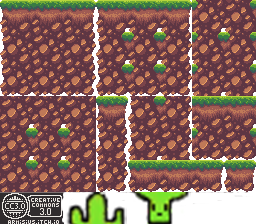
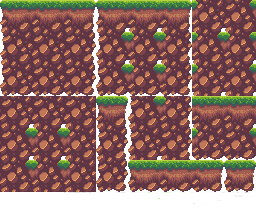
add v.1 of level_1.tmx remove cactus layer fix warnings in Game.h

Changed region(s): [[0.0, 0.8438, 0.5, 1.0], [0.5, 0.8438, 0.75, 1.0], [0.875, 0.8438, 0.9062, 0.875]]

diff --git a/src/Game.cpp b/src/Game.cpp
@@ -6,26 +6,6 @@
 
 Game *Game::s_Instance = nullptr;
 
-void Game::startGame() {
-    playState = new PlayState(100.0f, 300.0f, 3, 0);
-    manager.addState(playState);
-}
-
-void Game::restartGame(int life, int coins) {
-    playState = new PlayState(100.f, 300.f, life, coins);
-    manager.addState(playState);
-}
-
-void Game::newMenu() {
-    menu = new MenuState();
-    manager.addState(menu);
-}
-
-void Game::newVoidState(int life) {
-    voidState = new VoidState(life, Game::getInstance()->getPlayState()->getCollectedCoins());
-    manager.addState(voidState);
-}
-
 bool Game::init() {
     if (SDL_Init(SDL_INIT_EVERYTHING) != 0) {
         SDL_Log("Failed to initialize SDL: %s\n", SDL_GetError());
@@ -110,4 +90,40 @@ void Game::clean() {
 
 void Game::quit() {
     m_isRunning = false;
+}
+
+void Game::startGame() {
+    playState = new PlayState(100.0f, 300.0f, 3, 0);
+    manager.addState(playState);
+}
+
+void Game::restartGame(int life, int coins) {
+    playState = new PlayState(100.f, 300.f, life, coins);
+    manager.addState(playState);
+}
+
+void Game::newMenu() {
+    menu = new MenuState();
+    manager.addState(menu);
+}
+
+void Game::newVoidState(int life) {
+    voidState = new VoidState(life, Game::getInstance()->getPlayState()->getCollectedCoins());
+    manager.addState(voidState);
+}
+
+void Game::unsetPlayState() {
+    playState = nullptr;
+}
+
+void Game::unsetMenu() {
+    menu = nullptr;
+}
+
+void Game::unsetPause() {
+    pauseState = nullptr;
+}
+
+void Game::unsetVoidState() {
+    voidState = nullptr;
 }

diff --git a/src/Collision.cpp b/src/Collision.cpp
@@ -10,9 +10,6 @@ Collision *Collision::s_Instance = nullptr;
 Collision::Collision() {
     collision_layer = (TileLayer *) Game::getInstance()->getPlayState()->getMap()->getMapLayers().front();
     m_CollisionTileMap = collision_layer->getTileMap();
-
-    cactus_layer = (TileLayer *) Game::getInstance()->getPlayState()->getMap()->getMapLayers().back();
-    m_CactusCollision = cactus_layer->getTileMap();
 }
 
 bool Collision::checkCollision(SDL_Rect &rectA, SDL_Rect &rectB) {
@@ -42,31 +39,6 @@ bool Collision::mapCollision(SDL_Rect rectA) {
     for (int y = left_tile; y <= right_tile; y++)
         for (int x = top_tile; x <= bottom_tile; x++)
             if (m_CollisionTileMap[x][y] > 0)
-                return true;
-
-    return false;
-}
-
-bool Collision::cactusCollision(SDL_Rect rectA) {
-    int tileSize = 32;
-    int rows = 15;
-    int columns = 200;
-
-    int left_tile = rectA.x / tileSize;
-    int right_tile = (rectA.x + rectA.w) / tileSize;
-
-    int top_tile = rectA.y / tileSize;
-    int bottom_tile = (rectA.y + rectA.h) / tileSize;
-
-    if (left_tile < 0) left_tile = 0;
-    if (right_tile > columns) right_tile = columns;
-
-    if (top_tile < 0) top_tile = 0;
-    if (bottom_tile > rows) bottom_tile = rows;
-
-    for (int y = left_tile; y <= right_tile; y++)
-        for (int x = top_tile; x <= bottom_tile; x++)
-            if (m_CactusCollision[x][y] > 0)
                 return true;
 
     return false;

diff --git a/src/Dino.cpp b/src/Dino.cpp
@@ -98,16 +98,6 @@ void Dino::update(float delta) {
     if (Collision::getInstance()->mapCollision(collider->getBox()))
         transform->x = lastPosition.x;
 
-    if (Collision::getInstance()->cactusCollision(collider->getBox())) {
-        if (rigidBody->getVelocity().x < 0.f)
-            animation->setProperties("dino_crying", 0, 2, 500, SDL_FLIP_HORIZONTAL);
-        else
-            animation->setProperties("dino_crying", 0, 2, 500);
-        loseLife();
-        transform->x = 100.f;
-        SDL_Delay(500);
-        Game::getInstance()->newVoidState(life);
-    }
 
     if (transform->x < 0 || transform->x > MAP_WIDTH)
         transform->x = lastPosition.x;
@@ -129,17 +119,6 @@ void Dino::update(float delta) {
         isOnGround = true;
         transform->y = lastPosition.y;
     } else isOnGround = false;
-
-    if (Collision::getInstance()->cactusCollision(collider->getBox())) {
-        if (rigidBody->getVelocity().x < 0.f)
-            animation->setProperties("dino_crying", 0, 2, 500, SDL_FLIP_HORIZONTAL);
-        else
-            animation->setProperties("dino_crying", 0, 2, 500);
-        loseLife();
-        transform->x = 100.f;
-        SDL_Delay(500);
-        Game::getInstance()->newVoidState(life);
-    }
 
     std::vector<DinoEnemy *> enemies = Game::getInstance()->getPlayState()->getEnemies();
 

diff --git a/src/Game.h b/src/Game.h
@@ -48,25 +48,13 @@ public:
 
     inline VoidState *getVoidState() { return voidState; }
 
-    inline void unsetPlayState() {
-        delete playState;
-        playState = nullptr;
-    }
+    void unsetPlayState();
 
-    inline void unsetMenu() {
-        delete menu;
-        menu = nullptr;
-    }
+    void unsetMenu();
 
-    inline void unsetPause() {
-        delete pauseState;
-        pauseState = nullptr;
-    }
+    void unsetPause();
 
-    inline void unsetVoidState() {
-        delete voidState;
-        voidState = nullptr;
-    }
+    void unsetVoidState();
 
     void startGame();
 

diff --git a/src/Collision.h b/src/Collision.h
@@ -20,16 +20,12 @@ public:
     
     bool mapCollision(SDL_Rect rectA);
 
-    bool cactusCollision(SDL_Rect rectA);
-
 private:
     Collision();
 
     static Collision *s_Instance;
     TileMap m_CollisionTileMap;
     TileLayer *collision_layer;
-    TileMap m_CactusCollision;
-    TileLayer *cactus_layer;
 };
 
 
